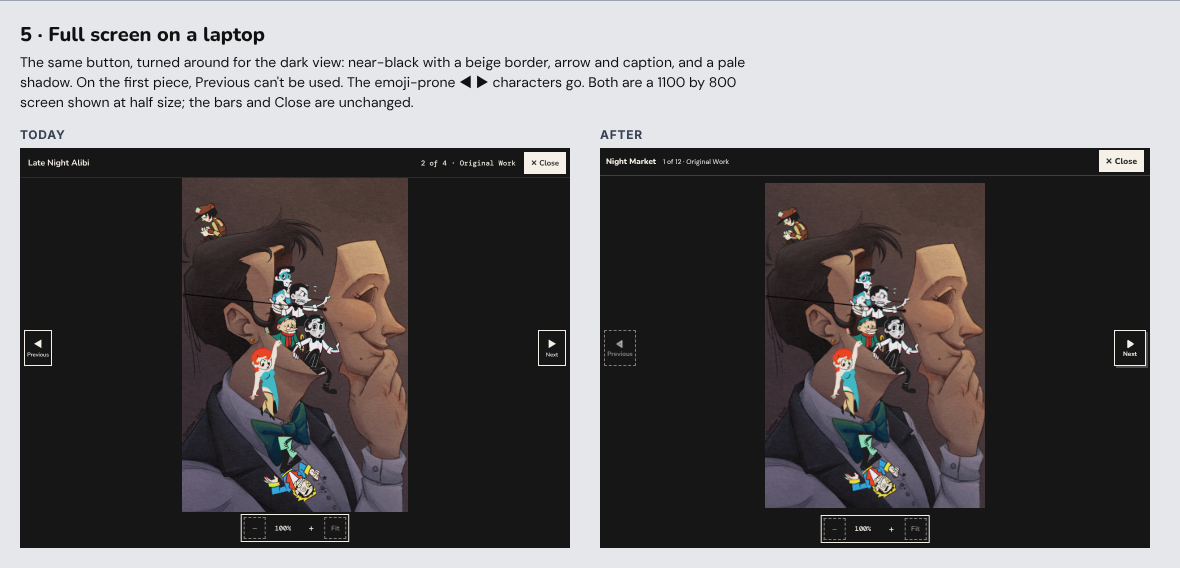
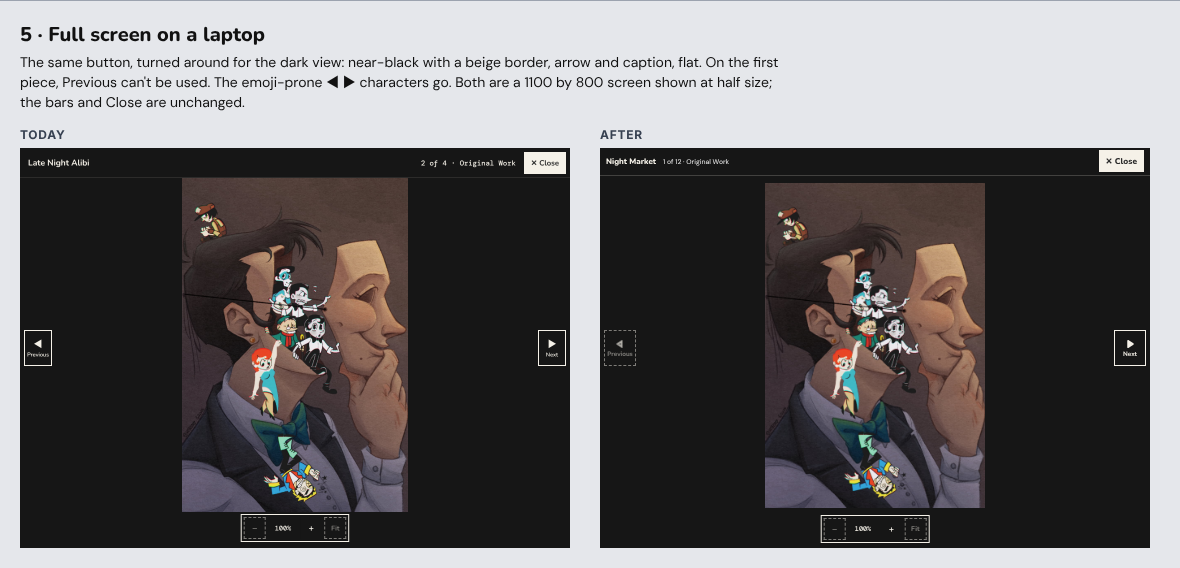
Arrows design: flat buttons, no drop shadows (lead's review)
The lead found drop shadows fight the ink-on-paper look. Arrow buttons
are now flat: beige with an ink border at rest, yellow on hover, inked
in (ink fill, beige arrow) when pressed, and nothing lifts or moves.
Design, style guide and mock-ups updated.

Claude-Session: https://claude.ai/code/session_01HWRLNSVAoX5Ni8d8XcwJh1

Changed region(s): [[0.0, 0.0898, 0.6712, 0.2095], [0.9458, 0.6285, 0.9763, 0.6585]]

diff --git a/docs/design/mockups/arrows/mockups.html b/docs/design/mockups/arrows/mockups.html
@@ -22,21 +22,21 @@
   .cell { padding: 16px; border: 1px solid #0002; }
   img.today { display: block; max-width: 100%; }
 
-  /* ---------- The arrow button (one style everywhere) ---------- */
+  /* ---------- The arrow button (one style everywhere): flat, no shadow, nothing moves ---------- */
   .ab { display: inline-flex; flex-direction: column; align-items: center; justify-content: center; gap: 2px;
     min-width: 44px; min-height: 44px; padding: 4px 8px; background: var(--beige); color: var(--ink);
-    border: 3px solid var(--ink); box-shadow: 4px 4px 0 rgba(0,0,0,.3); font: 700 .8rem/1.1 'Nunito'; position: relative; text-decoration: none; }
+    border: 3px solid var(--ink); font: 700 .8rem/1.1 'Nunito'; position: relative; text-decoration: none; }
   .ab svg { width: 24px; height: 24px; display: block; flex: none; }
   .ab svg.dbl { width: 32px; }
-  .ab.hover { background: var(--yellow); transform: translate(-2px,-2px); box-shadow: 6px 6px 0 rgba(0,0,0,.3); }
-  .ab.press { background: var(--yellow); transform: translate(2px,2px); box-shadow: none; }
+  .ab.hover { background: var(--yellow); }
+  .ab.press { background: var(--ink); color: var(--beige); }
   .ab.focus { outline: 2px solid var(--purple); outline-offset: 2px; }
-  .ab.off { border-style: dashed; border-color: rgba(43,43,43,.4); color: rgba(43,43,43,.45); box-shadow: none; background: transparent; }
-  .dark .ab { background: var(--night); color: var(--beige); border-color: var(--beige); box-shadow: 4px 4px 0 rgba(245,241,232,.25); }
-  .dark .ab.hover { background: var(--yellow); color: var(--ink); border-color: var(--yellow); box-shadow: 6px 6px 0 rgba(245,241,232,.25); }
-  .dark .ab.press { background: var(--yellow); color: var(--ink); border-color: var(--yellow); box-shadow: none; }
+  .ab.off { border-style: dashed; border-color: rgba(43,43,43,.4); color: rgba(43,43,43,.45); background: transparent; }
+  .dark .ab { background: var(--night); color: var(--beige); border-color: var(--beige); }
+  .dark .ab.hover { background: var(--yellow); color: var(--ink); border-color: var(--yellow); }
+  .dark .ab.press { background: var(--beige); color: var(--ink); border-color: var(--beige); }
   .dark .ab.focus { outline: 3px solid var(--yellow); outline-offset: 2px; }
-  .dark .ab.off { border-color: #f5f1e877; color: #f5f1e877; box-shadow: none; background: transparent; }
+  .dark .ab.off { border-color: #f5f1e877; color: #f5f1e877; background: transparent; }
   .tip { position: absolute; bottom: calc(100% + 8px); left: 50%; transform: translateX(-50%); padding: .25rem .5rem; background: var(--ink); color: var(--beige); font: 600 .8rem 'Nunito'; white-space: nowrap; }
 
   /* Frame 1: the shape */
@@ -71,7 +71,6 @@
   .fs .top .close { margin-left: auto; background: var(--beige); color: var(--ink); border: 2px solid var(--beige); font: 800 1.05rem 'Nunito'; min-width: 44px; justify-content: center; padding: 0 .75rem; min-height: 44px; display: flex; align-items: center; }
   .fs .pic { position: absolute; background: url('../../../../public/assets/images/bkgd-artwork.jpg') center/contain no-repeat; }
   .fs .side { position: absolute; top: 50%; transform: translateY(-50%); width: 64px; min-height: 72px; z-index: 2; }
-  .fs .side.hover { transform: translate(-2px, calc(-50% - 2px)); }
   .fs .zoom { position: absolute; z-index: 2; left: 50%; transform: translateX(-50%); display: flex; align-items: center; gap: .25rem; padding: .25rem; background: var(--night); border: 2px solid var(--beige); }
   .fs .zoom .zb { min-width: 44px; min-height: 44px; display: flex; align-items: center; justify-content: center; font: 700 1.1rem 'Nunito'; color: var(--beige); border: 2px solid transparent; }
   .fs .zoom .zb.off { border: 2px dashed #f5f1e877; color: #f5f1e877; }
@@ -128,7 +127,7 @@
 <!-- 2 -->
 <div class="frame" id="f2" style="width:720px">
   <h2>2 · Comic reader controls</h2>
-  <p class="sub">The same four controls, in the same places, with the same captions and full names. They gain the hard shadow, yellow on hover, and the soft triangles.</p>
+  <p class="sub">The same four controls, in the same places, with the same captions and full names. They gain yellow on hover and the soft triangles, and stay flat, with no shadow.</p>
   <p class="tag">Today</p>
   <div class="cell paper" style="margin-bottom:16px"><img class="today" src="today-comic-controls.png" width="640"></div>
   <p class="tag">After, on a laptop: on the newest page, with the pointer over Previous</p>
@@ -174,7 +173,7 @@
 <!-- 5 -->
 <div class="frame" id="f5" style="width:1180px">
   <h2>5 · Full screen on a laptop</h2>
-  <p class="sub">The same button, turned around for the dark view: near-black with a beige border, arrow and caption, and a pale shadow. On the first piece, Previous can't be used. The emoji-prone ◀ ▶ characters go. Both are a 1100 by 800 screen shown at half size; the bars and Close are unchanged.</p>
+  <p class="sub">The same button, turned around for the dark view: near-black with a beige border, arrow and caption, flat. On the first piece, Previous can't be used. The emoji-prone ◀ ▶ characters go. Both are a 1100 by 800 screen shown at half size; the bars and Close are unchanged.</p>
   <div class="pair">
     <div><p class="tag">Today</p><img class="today" src="today-full-screen.png" width="550"></div><!-- after: drawn at the same 1100 by 800 and shown at half size, like today -->
     <div><p class="tag">After</p>
@@ -192,7 +191,7 @@
 <!-- 6 -->
 <div class="frame" id="f6" style="width:900px">
   <h2>6 · Full screen on a phone held upright</h2>
-  <p class="sub">Previous and Next in the bottom bar, either side of the zoom controls, in the dark style. Left: at rest. Right: Next pressed (it sinks onto its shadow and turns yellow).</p>
+  <p class="sub">Previous and Next in the bottom bar, either side of the zoom controls, in the dark style. Left: at rest. Right: Next pressed (inked in: filled beige, with an ink arrow).</p>
   <div class="pair" style="grid-template-columns: 390px 390px">
     <div class="fs dark" style="width:390px; height:700px">
       <div class="top"><b>Night Market</b><span>3 of 12</span><span class="close">✕</span></div>
@@ -207,7 +206,7 @@
       <div class="pic" style="inset:70px 8px 90px"></div>
       <div class="bottom"></div>
       <span class="ab side" style="left:8px; top:auto; bottom:6px; transform:none; width:60px; min-height:64px"><svg viewBox="0 0 24 24"><use href="#previous"/></svg>Previous</span>
-      <span class="ab side press" style="right:8px; top:auto; bottom:6px; transform:translate(2px,2px); width:60px; min-height:64px"><svg viewBox="0 0 24 24"><use href="#next"/></svg>Next</span>
+      <span class="ab side press" style="right:8px; top:auto; bottom:6px; transform:none; width:60px; min-height:64px"><svg viewBox="0 0 24 24"><use href="#next"/></svg>Next</span>
       <div class="zoom" style="bottom:12px"><span class="zb off">−</span><span class="lvl">100%</span><span class="zb">+</span><span class="zb off" style="font-size:.85rem">Fit</span></div>
     </div>
   </div>
@@ -216,13 +215,13 @@
 <!-- 7 -->
 <div class="frame" id="f7" style="width:900px">
   <h2>7 · States</h2>
-  <p class="sub">One set of rules for every arrow button, on paper and on dark.</p>
+  <p class="sub">One set of rules for every arrow button, on paper and on dark. Flat, like ink on paper: no shadow, and nothing moves.</p>
   <div class="cell paper" style="display:flex; gap:36px; align-items:flex-end; padding:28px 24px 20px">
     <figure style="margin:0;text-align:center"><span class="ab"><svg viewBox="0 0 24 24"><use href="#next"/></svg></span><figcaption class="lbl" style="margin-top:12px">At rest</figcaption></figure>
-    <figure style="margin:0;text-align:center"><span class="ab hover"><svg viewBox="0 0 24 24"><use href="#next"/></svg></span><figcaption class="lbl" style="margin-top:12px">Pointer over it:<br>yellow, lifts 2 px</figcaption></figure>
-    <figure style="margin:0;text-align:center"><span class="ab press"><svg viewBox="0 0 24 24"><use href="#next"/></svg></span><figcaption class="lbl" style="margin-top:12px">Pressed: sinks<br>onto its shadow</figcaption></figure>
+    <figure style="margin:0;text-align:center"><span class="ab hover"><svg viewBox="0 0 24 24"><use href="#next"/></svg></span><figcaption class="lbl" style="margin-top:12px">Pointer over it:<br>yellow</figcaption></figure>
+    <figure style="margin:0;text-align:center"><span class="ab press"><svg viewBox="0 0 24 24"><use href="#next"/></svg></span><figcaption class="lbl" style="margin-top:12px">Pressed:<br>inked in</figcaption></figure>
     <figure style="margin:0;text-align:center"><span class="ab focus"><svg viewBox="0 0 24 24"><use href="#next"/></svg></span><figcaption class="lbl" style="margin-top:12px">Keyboard focus:<br>the site's purple ring</figcaption></figure>
-    <figure style="margin:0;text-align:center"><span class="ab off"><svg viewBox="0 0 24 24"><use href="#next"/></svg></span><figcaption class="lbl" style="margin-top:12px">Can't be used: dashed,<br>faded, no shadow</figcaption></figure>
+    <figure style="margin:0;text-align:center"><span class="ab off"><svg viewBox="0 0 24 24"><use href="#next"/></svg></span><figcaption class="lbl" style="margin-top:12px">Can't be used:<br>dashed, faded, no fill</figcaption></figure>
   </div>
   <div class="cell dark" style="display:flex; gap:36px; align-items:flex-end; padding:28px 24px 20px; margin-top:12px">
     <figure style="margin:0;text-align:center"><span class="ab"><svg viewBox="0 0 24 24"><use href="#next"/></svg></span><figcaption class="lbl" style="margin-top:12px;color:#ddd">At rest</figcaption></figure>

diff --git a/docs/design/arrows.md b/docs/design/arrows.md
@@ -27,7 +27,7 @@ records the result for later work. -->
 ## Personas
 
 - persona-fan: fans move through comic pages and portfolio pieces one after another (#goals), mostly on phones (#skills-and-tools), deciding quickly whether to keep going (#context-of-use). The way forward should look the same everywhere, so a fan who has used it once knows it on every page. Today it doesn't: the reader's controls, its edge arrows, the carousel and full screen each draw their arrows differently, and on an iPhone full screen's ◀ ▶ characters can come out as emoji.
-- persona-artist: Star wants the site to look like Star's own style (#goals): thick ink borders, sharp corners, hard shadows, yellow highlights and the rounded Nunito lettering. The arrows are drawn to match.
+- persona-artist: Star wants the site to look like Star's own style (#goals): thick ink borders, sharp corners, yellow highlights and the rounded Nunito lettering. The arrows are drawn to match, as ink on paper: flat, with no drop shadow (lead, 2026-11-06).
 
 ## The problem
 
@@ -45,18 +45,18 @@ Four kinds of arrow are in use, none from the style guide:
 
 **One shape.** Every arrow is drawn (SVG) from one solid triangle with rounded corners (mock-up 1): the same solid "play" shape the comic controls have today, so its meaning doesn't change, with its corners rounded like the ends of Nunito's letters. It points right for next, left for previous, and down for a fold-out; two side by side, with a gap between them, are first and newest (or last). In a 24-unit square, the triangle is 10 units wide and 13 tall, drawn with a 3-unit stroke with round joins; the doubles sit in a 32 by 24 box. No arrow is a typed character.
 
-**One button.** Every arrow that stands on its own, without words beside it, sits in one button style, built from the style guide's parts (mock-up 7):
+**One button.** Every arrow that stands on its own, without words beside it, sits in one button style, built from the style guide's parts and kept flat, like ink on paper: no drop shadow, and nothing lifts or moves (mock-up 7). The lead chose this at review (2026-11-06): drop shadows fight the ink-on-paper look.
 
-- **At rest:** beige (`--color-beige`), a 3 px ink border, sharp corners, and the hard shadow, 4 px down and right (`4px 4px 0 rgba(0,0,0,.3)`). At least 44 by 44 px.
-- **Pointer over it:** yellow (`--color-yellow`), lifted 2 px up and left, with the hard shadow at 6 px (`6px 6px 0 rgba(0,0,0,.3)`). The colour and lift are the site's primary buttons' (`.btn-primary`); the shadow stays hard. Only where the device can hover (`@media (hover: hover)`): on a phone, a tapped button that doesn't load a new page (full screen, the carousel) would otherwise stay yellow and lifted, and read as "selected".
-- **Pressed:** yellow, moved 2 px down and right, with no shadow, as if pressed onto the paper (`:active`, on every device).
-- **How it moves:** the lift and the press use the CSS `translate` property, not `transform`, so they add to a button's own positioning. Full screen's side buttons centre themselves with `transform: translateY(-50%)`; a lift written as a `transform` would replace that and make them jump.
+- **At rest:** beige (`--color-beige`), a 3 px ink border, sharp corners, no shadow. At least 44 by 44 px.
+- **Pointer over it:** yellow (`--color-yellow`), the colour of the site's primary buttons on hover (`.btn-primary`), like a highlighter stroke. Only where the device can hover (`@media (hover: hover)`): on a phone, a tapped button that doesn't load a new page (full screen, the carousel) would otherwise stay yellow, and read as "selected".
+- **Pressed:** inked in: an ink fill (`--color-ink`) with a beige arrow and caption, while the finger or button is down (`:active`, on every device).
+- **Nothing moves:** no state changes a button's size or position, so full screen's side buttons, which centre themselves with `transform: translateY(-50%)`, stay where they are.
 - **Keyboard focus:** the site's focus ring, 2 px dark purple (`--color-dark-purple`) 2 px outside the border, shown only for the keyboard (`:focus-visible`).
-- **Can't be used:** a dashed border at 40% ink (`rgba(43,43,43,.4)`) and the arrow and caption at 45% ink (`rgba(43,43,43,.45)`), as today. New: no shadow, and no fill (today's controls keep their beige), so it reads as flat and out of reach. On dark: border, arrow and caption at `#f5f1e877`, as today. These fall below 3:1 on purpose; WCAG exempts controls that can't be used from contrast, and they're also `aria-disabled` and skipped by Tab.
+- **Can't be used:** a dashed border at 40% ink (`rgba(43,43,43,.4)`) and the arrow and caption at 45% ink (`rgba(43,43,43,.45)`), as today. New: no fill (today's controls keep their beige), so it reads as an empty outline, out of reach. On dark: border, arrow and caption at `#f5f1e877`, as today. These fall below 3:1 on purpose; WCAG exempts controls that can't be used from contrast, and they're also `aria-disabled` and skipped by Tab.
 - **The carousel has no "can't be used" state,** as today: its arrows scroll the row and do nothing at its ends.
-- **Motion:** the colour, lift and shadow change over 120 ms (`--transition-fast`). With reduced motion, nothing moves: the colour and shadow change at once, and there's no lift or press movement (as the site's `.btn` does today).
+- **Motion:** only colour changes, over 120 ms (`--transition-fast`); with reduced motion, at once.
 
-**On dark** (full screen), the same button turned around: near-black (`#161616`) with a beige border, arrow and caption, and a pale shadow (`4px 4px 0 rgba(245,241,232,.25)`). With the pointer over it or pressed, it turns yellow with an ink arrow, as on paper. Its focus ring stays full screen's yellow, 3 px, which shows on near-black where purple wouldn't.
+**On dark** (full screen), the same button turned around: near-black (`#161616`) with a beige border, arrow and caption, and no shadow. With the pointer over it, it turns yellow with an ink arrow, as on paper; pressed, it fills beige with an ink arrow (inked in, the other way round). Its focus ring stays full screen's yellow, 3 px, which shows on near-black where purple wouldn't.
 
 **Beside words.** In a link or button with words, the arrow is the same triangle, about three quarters of the letters' height, in the text's colour, on the side it points to (mock-up 8). It's hidden from screen readers; the words carry the meaning.
 
@@ -96,7 +96,7 @@ Built to match the site, with its fonts, colours, paper and pictures. Source: `m
 - Every arrow button is at least 44 by 44 px, and the comic controls at least 56 px tall, as today.
 - The ink arrow on beige or yellow, and the beige arrow on near-black, are well above 3:1, as graphics need. The yellow hover doesn't carry meaning on its own: hovering is a pointer effect, and the button is the same button.
 - Keyboard focus shows the site's ring (REQ-site-4). The comic controls are links and already show it; the carousel buttons show only the browser's own ring today, and gain the site's. On the carousel's kraft band (`#bd9f76` at its darkest) the purple ring is 3.8:1, above the 3:1 a focus ring needs (mock-up 10). Full screen keeps its yellow ring: purple on near-black would be 1.9:1.
-- With reduced motion, nothing moves: hover and press change colour and shadow at once, with no lift or press movement (REQ-site-4).
+- Nothing moves in any state; with reduced motion, the colour changes at once (REQ-site-4).
 - With text at 200%, the captions grow and the arrows keep their size; the comic controls wrap two by two, as today (mock-up 9); the carousel keeps 44 px arrows (mock-up 10); full screen's buttons grow to their captions (mock-up 11).
 
 ## Other documents
@@ -114,10 +114,10 @@ The fans' guide `reading-comics.md` names **← Back to page 4** (twice: where t
 ## For the spec to check
 
 - No control on the site uses a typed arrow (‹ › ◀ ▶ ← → ▾ ▴ ⏮ ⏭): the comic controls, edge arrows, carousel, full screen, contact sheet links, the chapter list, "Read it" and "Email me to get started" use the drawn shape, from one shared source, hidden from screen readers.
-- The arrow buttons in the comic reader, the edge arrows, the carousel and full screen share one style: at rest, a 3 px border and a 4 px hard shadow; with the pointer over them (only where the device can hover), yellow, lifted 2 px, with a 6 px hard shadow; pressed, yellow, with no shadow; can't be used (not the carousel), dashed with no shadow and no fill; and the dark variant in full screen.
-- The lift and press don't move full screen's side buttons from their places: on a laptop, **Previous** and **Next** stay centred on the screen's height with the pointer over them.
+- The arrow buttons in the comic reader, the edge arrows, the carousel and full screen share one style: at rest, beige with a 3 px ink border and no shadow; with the pointer over them (only where the device can hover), yellow; pressed, an ink fill with a beige arrow; can't be used (not the carousel), dashed with no fill; and the dark variant in full screen. None has a box shadow.
+- No state moves or resizes a button: on a laptop, full screen's **Previous** and **Next** stay centred on the screen's height with the pointer over them and while pressed.
 - Keyboard focus shows a visible ring on each (purple on paper, yellow in full screen); a mouse click doesn't.
-- With reduced motion, the hover and press changes have no transition and no movement.
+- With reduced motion, the colour changes have no transition.
 - Accessible names are unchanged, apart from **Back to page 4**, "Read it" and "Email me to get started" losing their arrows.
 - The carousel buttons are 44 by 44 px at every width, including 320 px with text at 200%.
 - With text at 200% on a 320 px phone held upright, full screen's **Previous** and **Next** show their whole captions inside their borders, and nothing in the bottom bar overlaps.
@@ -126,23 +126,25 @@ The fans' guide `reading-comics.md` names **← Back to page 4** (twice: where t
 
 ## Decisions at review
 
-Questions for the lead:
-1. **Yellow on hover** for every arrow button, as the site's primary buttons do (proposed), or only a lift?
-2. **The hard shadow on the comic controls**, which they don't have today (proposed, so all arrow buttons match).
-3. **Words with arrows** ("Read it", "Email me to get started", the chapter links and the chapter list): change them too (proposed), or only the arrows that stand alone?
+The lead's review (2026-11-06), so far:
+- **No drop shadows** on arrow buttons: they fight the ink-on-paper look. With no shadow, nothing lifts or sinks either: hover is yellow only, and pressed is inked in (mock-ups redrawn). This settles the earlier question of adding the shadow to the comic controls.
+
+Still open:
+1. **Yellow on hover** for every arrow button, as the site's primary buttons do (proposed)?
+2. **Words with arrows** ("Read it", "Email me to get started", the chapter links and the chapter list): change them too (proposed), or only the arrows that stand alone?
 
 ## Persona walkthrough
 
 A walkthrough for persona-fan, and for persona-artist on the look (2026-11-06), opened each mock-up and checked the design against the code. It found one blocking problem, five misleading ones and seven slower ones. All are addressed above:
-- **Blocking:** a lift written as a CSS `transform` would have replaced full screen's centring of **Previous** and **Next**, making them jump about 36 px on hover (now the lift uses `translate`, with a check for the spec).
+- **Blocking:** a lift written as a CSS `transform` would have replaced full screen's centring of **Previous** and **Next**, making them jump about 36 px on hover (since the review, nothing moves at all, with a check for the spec).
 - **Misleading:**
   - "Read it" and "Email me to get started" lose their arrows from their spoken names too, not only **Back to page 4**;
-  - the hover's shadow is hard, unlike `.btn-primary`'s soft one;
+  - the hover's shadow was hard, unlike `.btn-primary`'s soft one (since the review, there's no shadow);
   - the comic controls already show the site's focus ring; only the carousel doesn't;
   - on a phone, hover would stick after a tap that loads no new page (now hover is only where the device can hover);
   - the guide names **← Back to page 4** twice.
 - **Slower:**
-  - reduced motion was stated two ways (now: no movement at all);
+  - reduced motion was stated two ways (now nothing moves in any state);
   - mock-up 4 drew the carousel on paper, not its kraft band (redrawn, with the focus ring checked there);
   - the carousel's "can't be used" state was undefined (it has none);
   - the carousel's size today, and with text at 200% (mock-up 10);

diff --git a/docs/STYLE_GUIDE.md b/docs/STYLE_GUIDE.md
@@ -142,17 +142,16 @@ Subtle, professional animations:
 From design-arrows (`docs/design/arrows.md`, with mock-ups in `docs/design/mockups/arrows/`). Every arrow on the site is drawn from one shape and, when it stands alone, sits in one button.
 
 - **The shape:** a solid triangle with rounded corners, matching the rounded ends of Nunito's letters. In a 24-unit square it is 10 units wide and 13 tall, drawn with a 3-unit stroke with round joins. One points right for next, left for previous, down or up for a fold-out; two side by side, with a gap, are first and last. Always drawn (SVG) from the shared source, never typed: phones draw characters like ◀ ⏭ as emoji, and fonts draw ‹ → differently.
-- **The button, on paper:**
-  - At rest: `--color-beige` background, 3px `--color-ink` border, sharp corners, hard shadow `4px 4px 0 rgba(0,0,0,.3)`; at least 44 × 44px.
-  - Hover, only under `@media (hover: hover)` so it doesn't stick after a tap: `--color-yellow`, `translate: -2px -2px`, hard shadow `6px 6px 0 rgba(0,0,0,.3)` (the colour and lift of `.btn-primary`, with a hard shadow).
-  - Pressed (`:active`): `--color-yellow`, `translate: 2px 2px`, no shadow.
-  - Use the `translate` property for the lift and press, not `transform`, so they add to a button's own positioning.
-  - Can't be used: dashed border at `rgba(43,43,43,.4)`, arrow and caption at `rgba(43,43,43,.45)`, no shadow, no fill; `aria-disabled` and skipped by Tab (exempt from contrast).
+- **The button, on paper:** flat, like ink on paper: no drop shadow, and no state moves or resizes it (lead, 2026-11-06: drop shadows fight the ink-on-paper look).
+  - At rest: `--color-beige` background, 3px `--color-ink` border, sharp corners; at least 44 × 44px.
+  - Hover, only under `@media (hover: hover)` so it doesn't stick after a tap: `--color-yellow` (the hover colour of `.btn-primary`).
+  - Pressed (`:active`): inked in, a `--color-ink` fill with a beige arrow and caption.
+  - Can't be used: dashed border at `rgba(43,43,43,.4)`, arrow and caption at `rgba(43,43,43,.45)`, no fill; `aria-disabled` and skipped by Tab (exempt from contrast).
   - Focus: the site's focus ring (see Accessibility).
-- **The button, on dark** (full screen): `#161616` background, beige border, arrow and caption, shadow `4px 4px 0 rgba(245,241,232,.25)`; yellow with an ink arrow on hover and press; a 3px yellow focus ring.
+- **The button, on dark** (full screen): `#161616` background, beige border, arrow and caption, no shadow; yellow with an ink arrow on hover; a beige fill with an ink arrow when pressed; a 3px yellow focus ring.
 - **With a caption** (the comic controls, full screen): the arrow above a short Nunito 700 caption, at least 56px tall.
 - **Beside words** (links and buttons): the same triangle at about 0.72em, in the text's colour, on the side it points to, `aria-hidden`. No typed ← → in labels.
-- **Motion:** 120ms (`--transition-fast`) for the colour, lift and shadow. Under reduced motion, colour and shadow change at once and nothing moves.
+- **Motion:** colour only, over 120ms (`--transition-fast`); at once under reduced motion.
 - **Not arrows:** close (✕), zoom (+ − Fit) and menu buttons keep their own looks.
 
 ## Branding & Iconography
